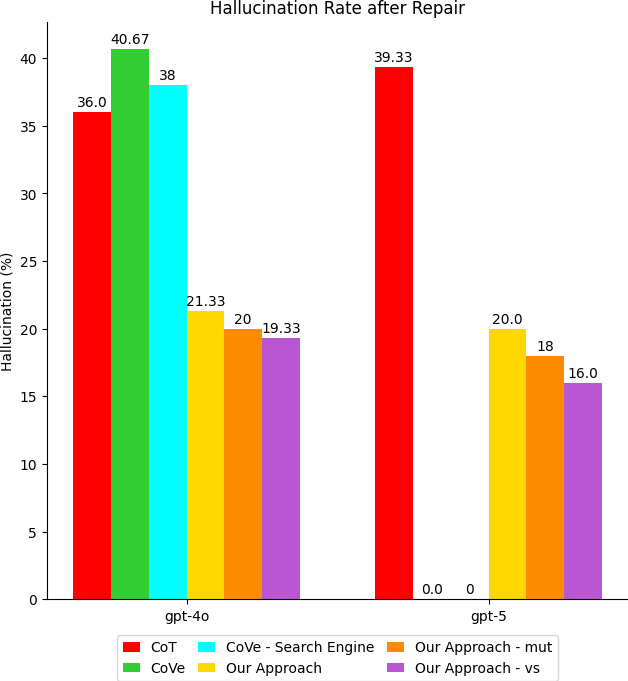
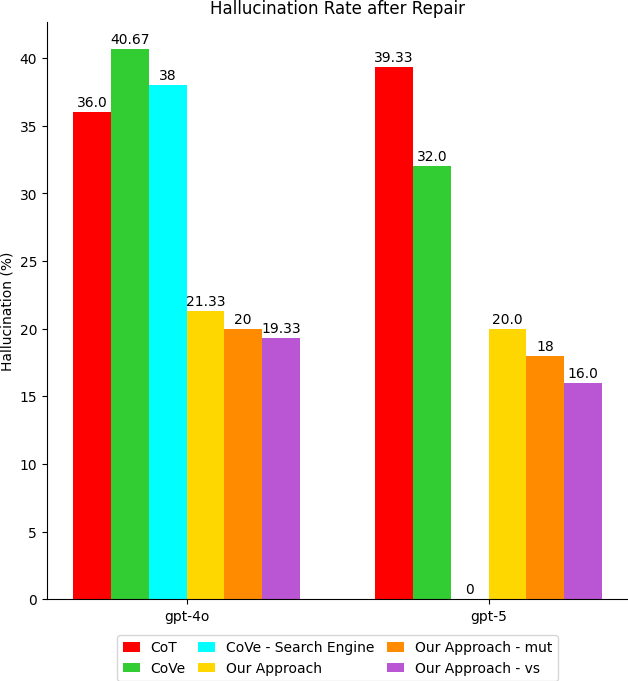
Update sample responses and add detailed explanations
Expanded and corrected entries in gpt-5_cove_se_outputs_gpt-5_sample_responses.csv, providing more detailed explanations, clarifications, and context for various questions. This improves the accuracy and informativeness of the sample responses for chain-of-verification tasks.

Changed region(s): [[0.6354, 0.2159, 0.7261, 0.8943]]

diff --git a/stat/accuracy_figure.py b/stat/accuracy_figure.py
@@ -11,7 +11,7 @@ mpl.rcParams['savefig.pad_inches'] = 0
 
 labels = ['gpt-4o', 'gpt-5']
 group0 = [31.08, 24]
-group1 = [27.03, 0]
+group1 = [27.03, 45.33]
 group2 = [31.08, 0]
 group3 = [62.16, 61.33]
 group4 = [62.16, 64]

diff --git a/stat/overcorrection_figure.py b/stat/overcorrection_figure.py
@@ -11,7 +11,7 @@ mpl.rcParams['savefig.pad_inches'] = 0
 
 labels = ['gpt-4o', 'gpt-5']
 group0 = [3.95, 2.67]
-group1 = [9.21, 0]
+group1 = [9.21, 9.33]
 group2 = [7.89, 0]
 group3 = [5.26, 1.33]
 group4 = [2.63, 0]

diff --git a/stat/recheck_hallucination_figure.py b/stat/recheck_hallucination_figure.py
@@ -11,7 +11,7 @@ mpl.rcParams['savefig.pad_inches'] = 0
 
 labels = ['gpt-4o', 'gpt-5']
 group0 = [36, 39.33]
-group1 = [40.67, 0]
+group1 = [40.67, 32]
 group2 = [38, 0]
 group3 = [21.33, 20]
 group4 = [20, 18]